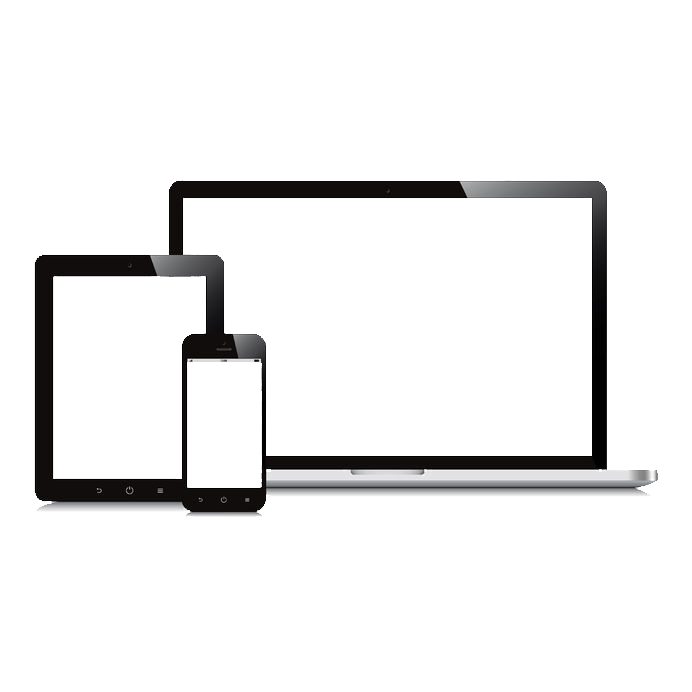
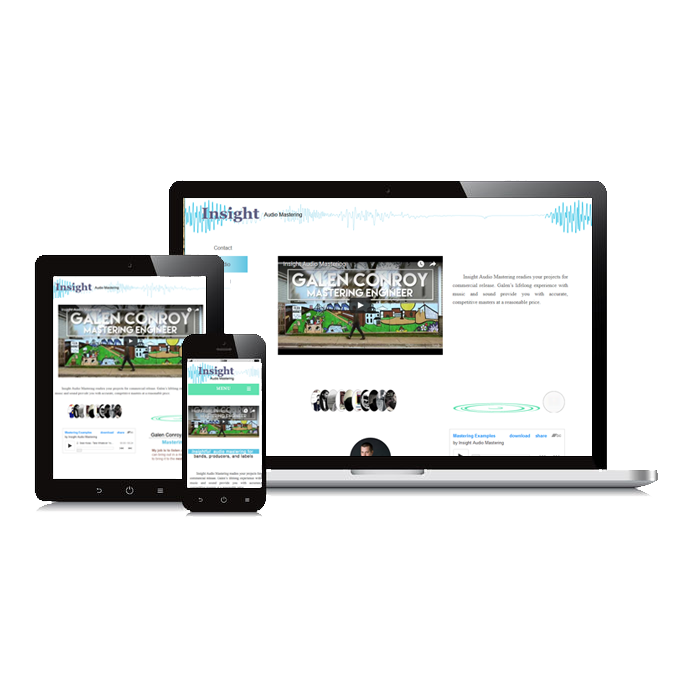
format of sections

diff --git a/css/styles.css b/css/styles.css
@@ -1,1 +1,1 @@
-body{font-family:"Raleway",sans-serif;text-align:center}h2{width:100%;font-size:1.3rem;font-weight:700;font-family:"Titillium Web",sans-serif}h3{font-family:"Roboto";font-weight:300;background-color:#000;color:pink}.services{display:flex;flex-flow:row;flex-wrap:wrap;justify-content:center;width:90%;max-width:1200px;margin:0 auto}.services-container{width:30%;margin:1%;min-width:150px;background-color:pink}@media (max-width: 768px){.services{flex-flow:column}.services-container{width:80%;margin:auto}}@media (min-width: 769px) and (max-width: 1000px){.services-container{width:47%}}
+body{font-family:"Raleway",sans-serif;text-align:center}section{text-align:center;margin:0 auto;width:90%;max-width:1200px;border:1px solid pink}h2{width:100%;font-size:1.3rem;font-weight:700;font-family:"Titillium Web",sans-serif}h3{font-family:"Roboto";font-weight:300;background-color:#000;color:pink}.services{display:flex;flex-flow:row;flex-wrap:wrap;justify-content:center}.services-container{width:30%;margin:1%;min-width:150px;background-color:pink}.insight{background-image:url("../assets/images/insight.png");background-position:center;background-size:contain;background-repeat:no-repeat;height:400px;width:70%;border:1px solid pink}@media (max-width: 768px){section{width:100%}.services{flex-flow:column}.services-container{width:80%;margin:auto}}@media (min-width: 769px) and (max-width: 1000px){.services-container{width:47%}}

diff --git a/css/styles.sass b/css/styles.sass
@@ -15,7 +15,12 @@ $roboto: 'Roboto'
 body
   font-family: $sans
   text-align: center
-
+section
+  text-align: center
+  margin: 0 auto
+  width: 90%
+  max-width: 1200px
+  border: 1px solid pink
 h2
   width: 100%
   font-size: 1.3rem
@@ -31,15 +36,22 @@ h3
   flex-flow: row
   flex-wrap: wrap
   justify-content: center
-  width: 90%
-  max-width: 1200px
-  margin: 0 auto
 .services-container
   width: 30%
   margin: 1%
   min-width: 150px
   background-color: pink
+.insight
+  background-image: url('../assets/images/insight.png')
+  background-position: center
+  background-size: contain
+  background-repeat: no-repeat
+  height: 400px
+  width: 70%
+  border: 1px solid pink
 @media (max-width: 768px)
+  section
+    width: 100%
   .services
     flex-flow: column
   .services-container

diff --git a/index.html b/index.html
@@ -28,7 +28,7 @@
     <section class="services">
       <div class="services-container">
         <h3>Branding/Identity</h3>
-        <p></p>
+        <p>Let us bring your brand to life. Consistant branding that looks great online or on a letterhead</p>
       </div><!-- end first section -->
       <div class="services-container">
         <h3>Web Design/Development</h3>
@@ -52,12 +52,14 @@
       </div><!-- end sixth section -->
     </section><!-- end services section-->
 
+    <h2>Projects</h2>
     <section class="projects">
-      <h2>Projects</h2>
+      <div><p></p><div class="insight"></div></div>
     </section><!-- end projects section-->
 
+    <h2>Contact</h2>
     <section class="contact">
-      <h2>Contact</h2>
+
     </section><!-- end contact section-->
   </main>
 
